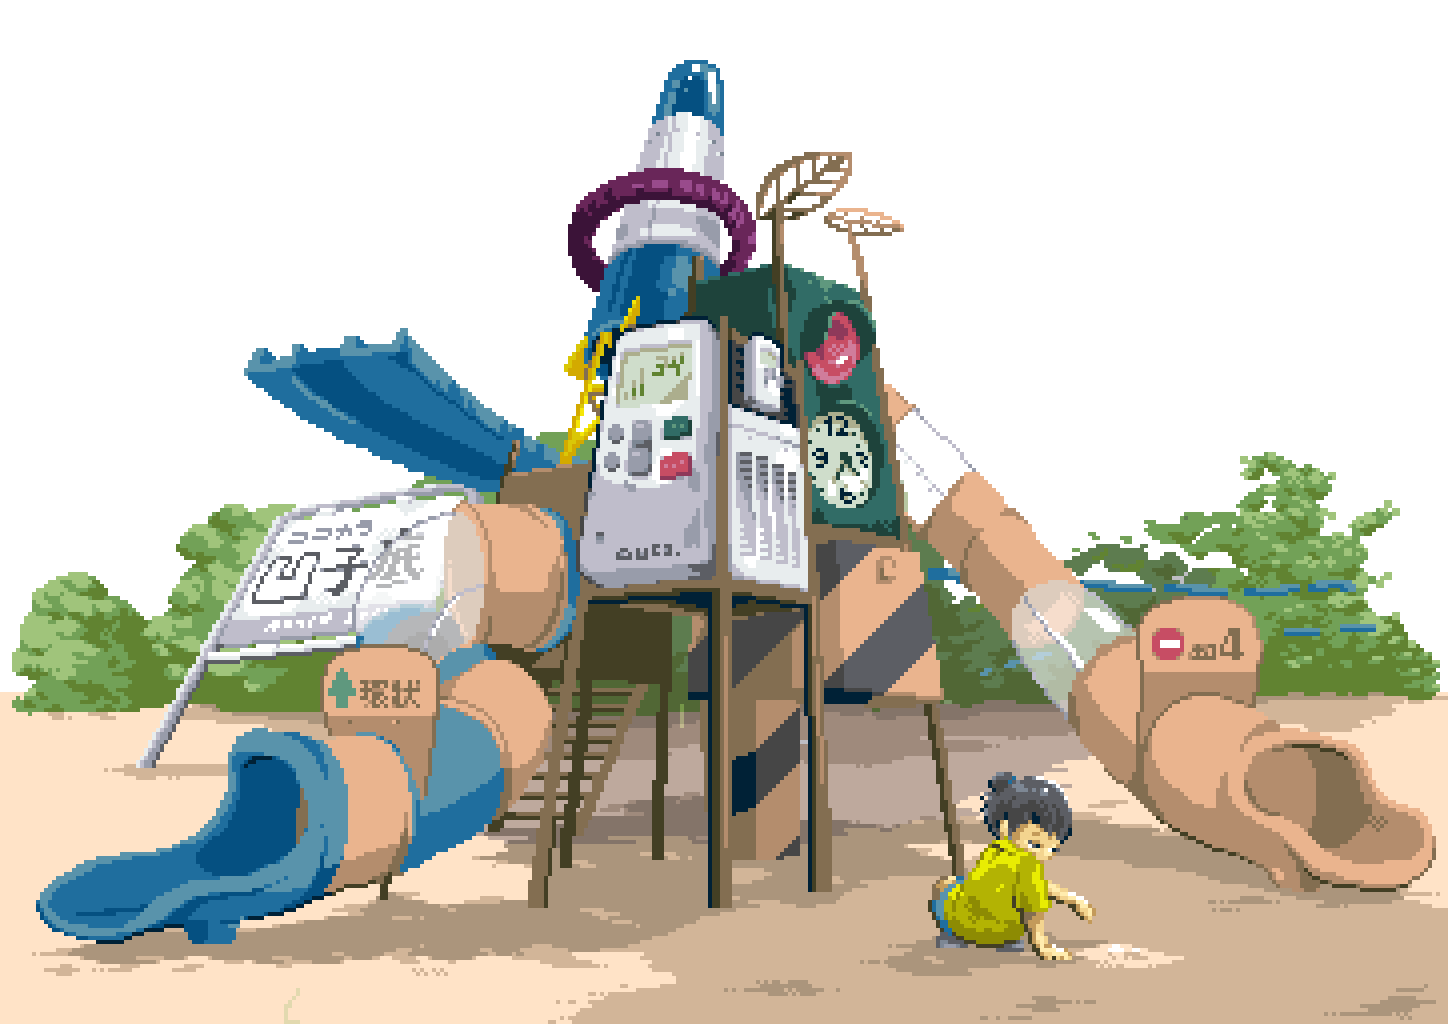
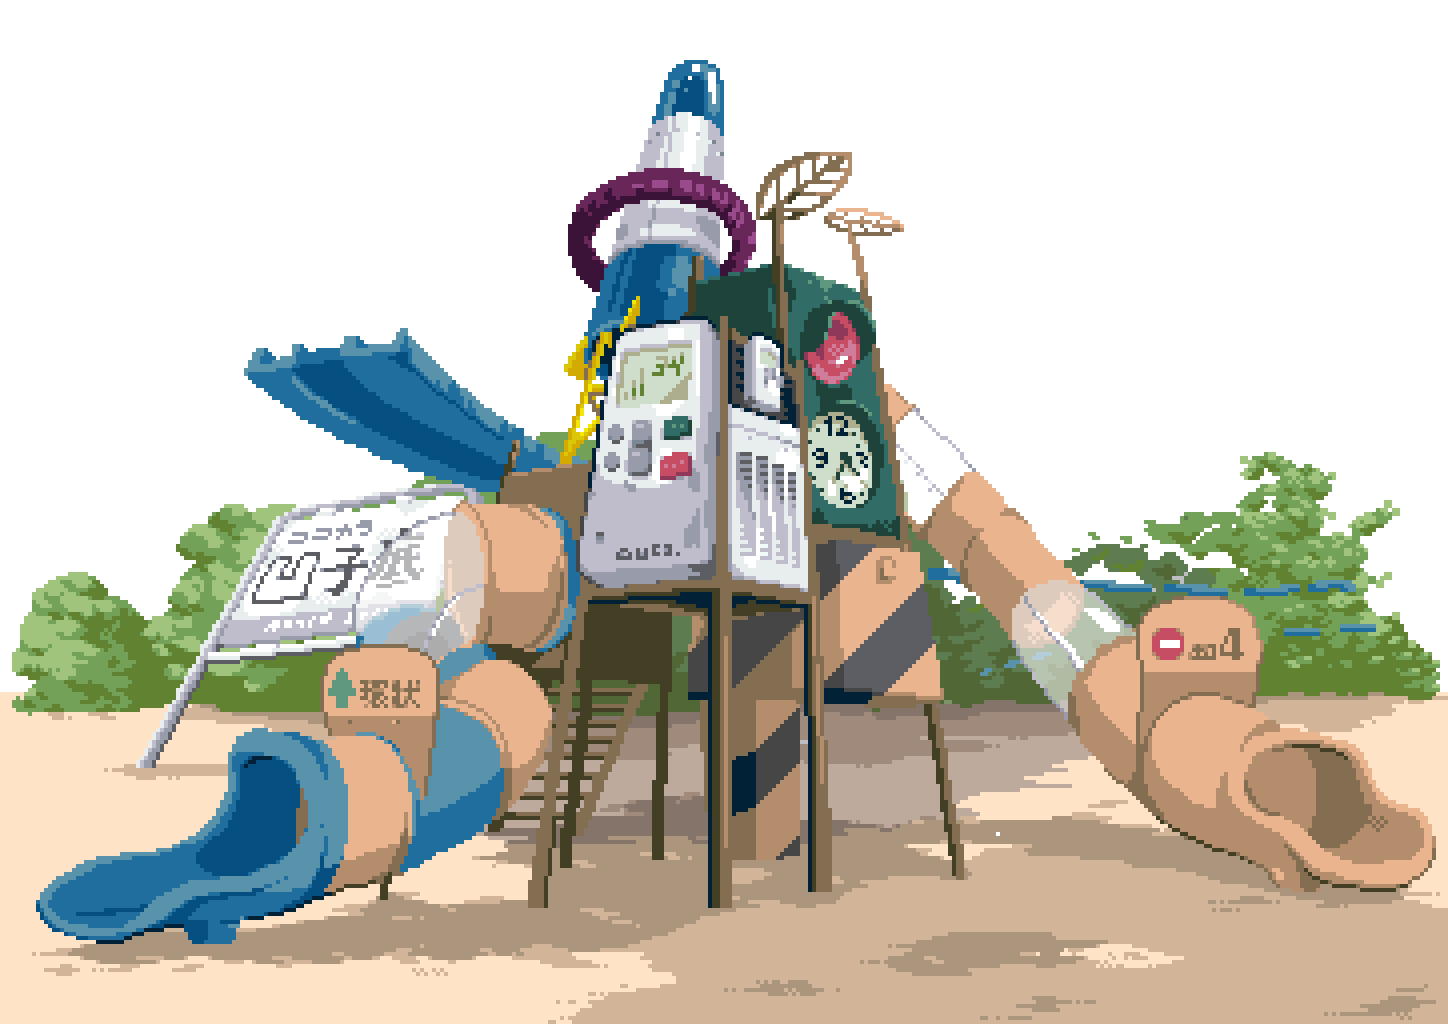
make kid movable

Changed region(s): [[0.6215, 0.75, 0.7769, 0.9375], [0.1865, 0.9688, 0.2175, 1.0]]

diff --git a/SFinthePark/sketch.js b/SFinthePark/sketch.js
@@ -25,7 +25,11 @@ function preload() {
   imgr2 = loadImage("r2.png");
   imgr3 = loadImage("r3.png");
   imgr4 = loadImage("r4.png");
+  
+  imgkid = loadImage("kid.png");
+  imgkid2 = loadImage("kid2.png");
 }
+
 
 function setup() {
   cwidth = imgback.width/4*scal;
@@ -44,14 +48,14 @@ function draw() {
   makeRhombus(rhombusx, rhombusy, r*scal, rhombusColor);
 
   
-  fill(255,255,255,tr/6);
+  fill(255,255,255,tr/4);
   
   n = noise(centerNoise);
   fish = map(n, 0, 1, 0, 20);
   train = map(n, 0, 1, 0, 30);
   
-  drawPixelSineWave((center)*16);
-  drawPixelSineWave((center)*4);
+  drawPixelSineWave((center)*16,strum);
+  drawPixelSineWave((center)*4,strum);
   
   //
   // 触ると動くデジタルバージョン:
@@ -73,7 +77,8 @@ function draw() {
 
   image(imgback, 0, 0, cwidth, cheight);
   
-  drawPixelSineWave((center)*8);
+  drawPixelSineWave((center)*8,strum);
+  drawPixelSineWave((center)*8,strum*2);
   
   // manbow 
   if(mouseX>186*scal && mouseY>44*scal && mouseX<327*scal && mouseY<144*scal) {
@@ -105,9 +110,7 @@ function draw() {
     } else if(uocount < 600) {
       image(imgl3, 0, 0, cwidth, cheight);
     }
-  }
-  
-  if(220*scal<mouseX && 95*scal<mouseY && mouseX<357*scal && mouseY<220*scal) {
+  } else if(220*scal<mouseX && 95*scal<mouseY && mouseX<357*scal && mouseY<220*scal) {
     if(uocount<150){
       image(imgr1, 0, 0, cwidth, cheight);
     } else if (uocount<300) {
@@ -129,6 +132,14 @@ function draw() {
    }
   
   count++;
+  
+  // kid 
+  if(count > 20) {
+    image(imgkid2, 0, 0, cwidth, cheight);
+  } else {
+    image(imgkid, 0, 0, cwidth, cheight);
+  }
+  
   if(count > 20+rest*2) {
     count = 0;
   }
@@ -151,10 +162,10 @@ function makeRhombus (x, y, r, color) {// xyは左上、rは大きさ、colorは
     }
 }
 
-function drawPixelSineWave (center) {
+function drawPixelSineWave (center, sinheight) {
   for(let x =  0; x < width; x+=scal/10) {
     let angle = dr + x/50;
-    let y = map(sin(angle), -strum, strum, width/4, width*3/4)+center;
+    let y = map(sin(angle), -sinheight, sinheight, width/4, width*3/4)+center;
     rect(int(x/scal)*scal, int(y/scal)*scal, scal,scal);
   }
   dr += 0.05;
